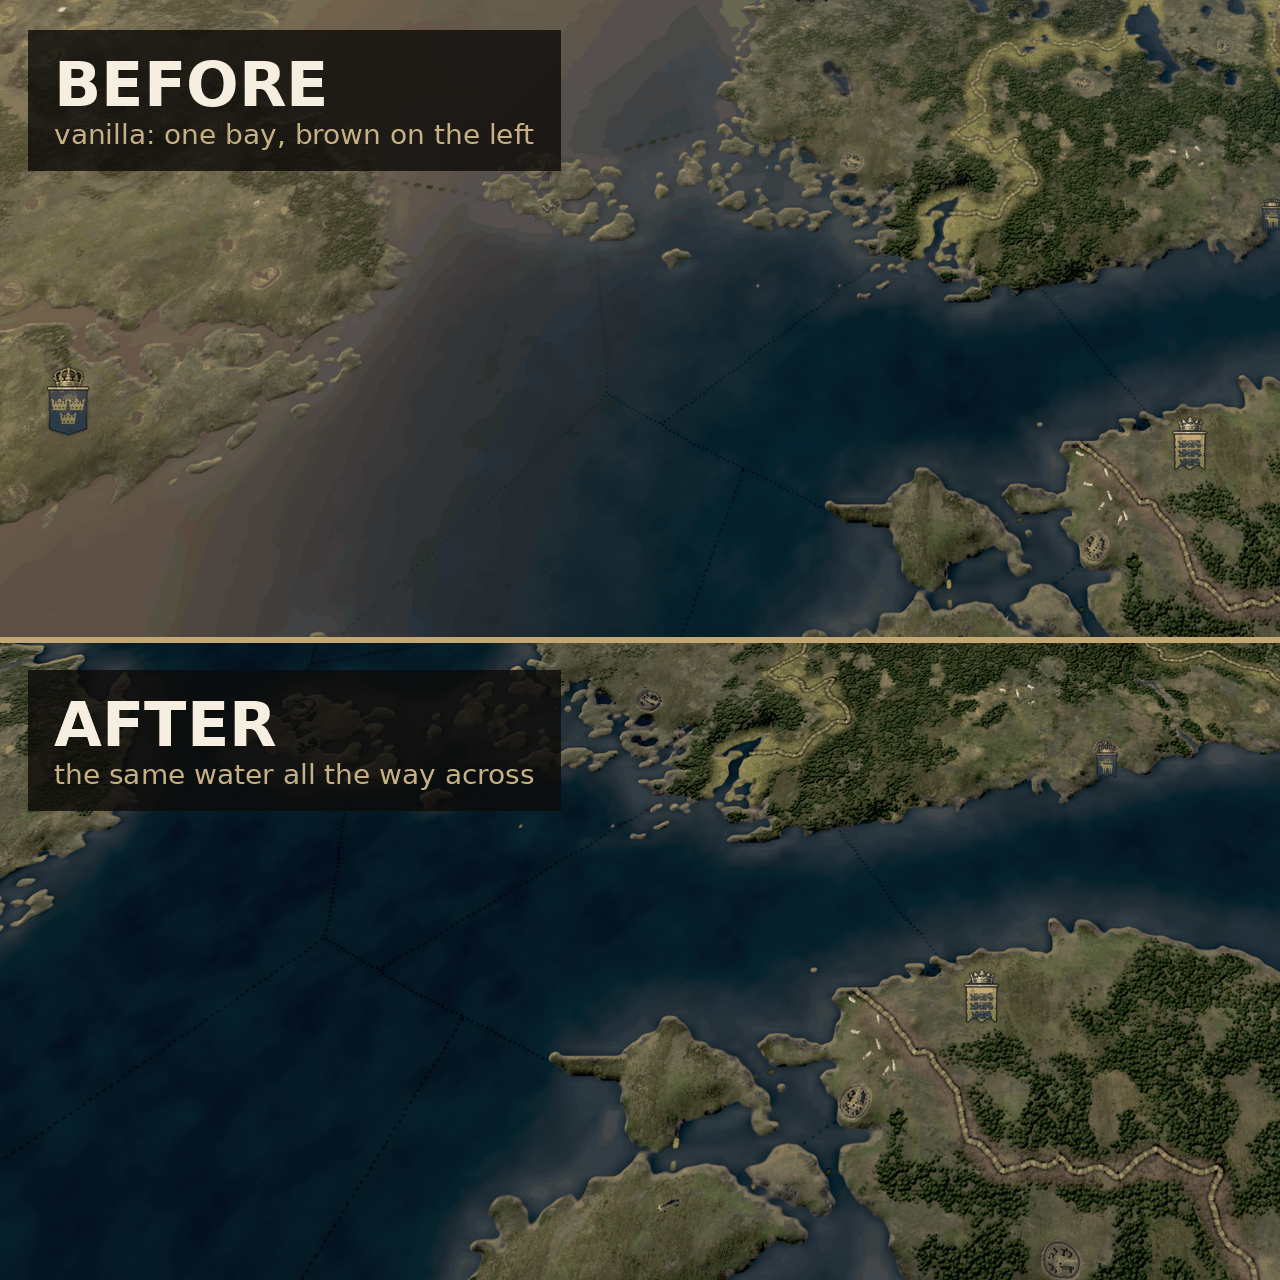
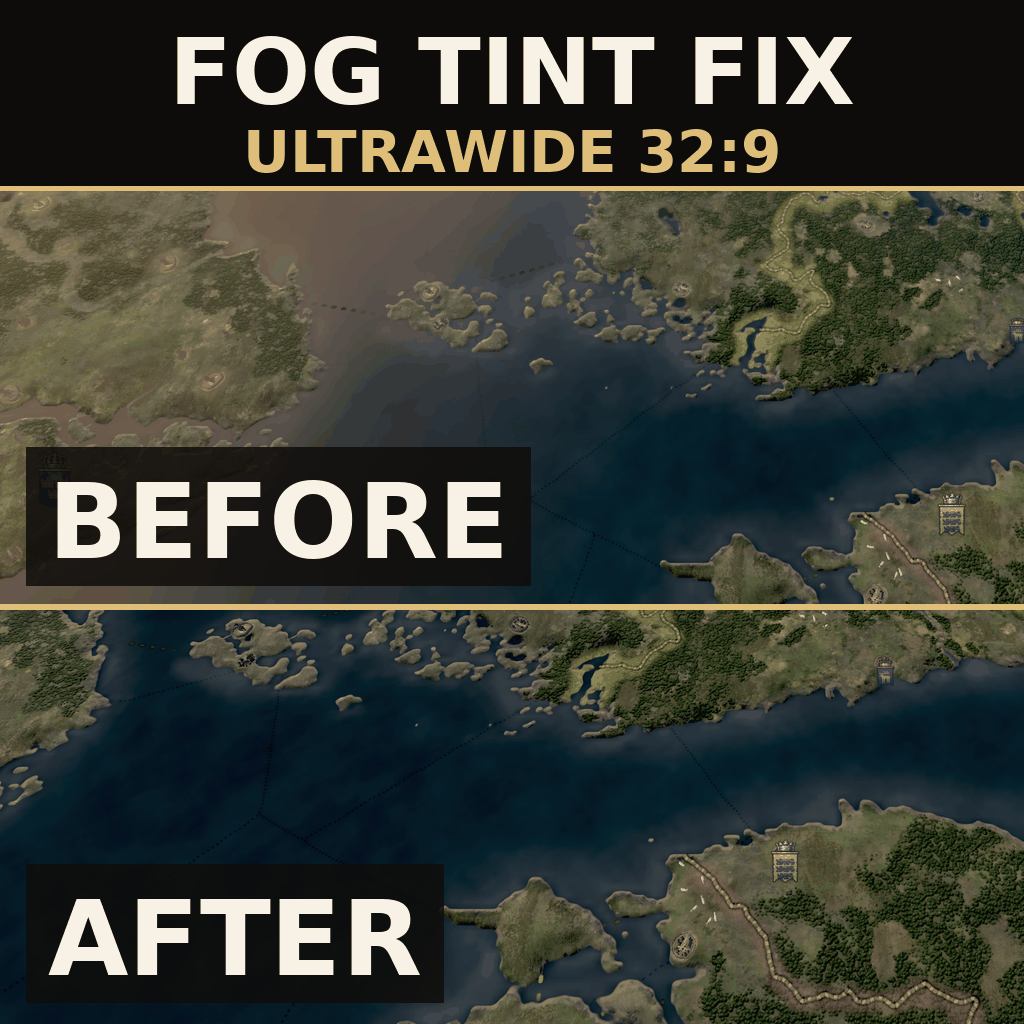
Preview: shared layout with large labels that read at listing size

diff --git a/tools/thumbnail_layout.py b/tools/thumbnail_layout.py
@@ -1,0 +1,87 @@
+"""Workshop preview generator shared by the low spec mods.
+
+Layout, 1024x1024, built to read at Steam's ~200 px listing size:
+  top band     : mod name (bold, ~90 px) and ADVANCED SHADERS OFF (bold, ~60 px)
+  two halves   : BEFORE / AFTER screenshots, each labelled with a ~100 px bold word
+All text sits on solid dark backing so it survives any screenshot underneath.
+"""
+from PIL import Image, ImageDraw, ImageFont
+
+FB = "/usr/share/fonts/truetype/dejavu/DejaVuSans-Bold.ttf"
+S = 1024
+BAND = 190
+HALF = (S - BAND) // 2            # 417
+CROP_H = 853                      # 2120 x 853 keeps the halves' 2.54:1 aspect from a 5120x1440 shot
+GOLD = (222, 190, 120, 255)
+CREAM = (248, 242, 230, 255)
+DARK = (14, 12, 10, 255)
+
+def crop_half(path, crop):
+    return Image.open(path).convert("RGB").crop(crop).resize((S, HALF), Image.LANCZOS)
+
+def label(d, y, text, font, pad=22):
+    tw = d.textlength(text, font=font)
+    box = [26, y, 26 + tw + pad * 2, y + font.size + pad * 2 - 10]
+    d.rectangle(box, fill=(14, 12, 10, 215))
+    d.text((26 + pad, y + pad - 8), text, font=font, fill=CREAM)
+
+def fit(d, text, size, max_w):
+    """Largest font size at or below `size` whose rendered width fits max_w."""
+    while size > 40:
+        f = ImageFont.truetype(FB, size)
+        if d.textlength(text, font=f) <= max_w:
+            return f
+        size -= 4
+    return ImageFont.truetype(FB, size)
+
+def make(out, title, before, after, crop_before, crop_after, sub="ADVANCED SHADERS OFF"):
+    canvas = Image.new("RGB", (S, S), DARK[:3])
+    canvas.paste(crop_half(before, crop_before), (0, BAND))
+    canvas.paste(crop_half(after, crop_after), (0, BAND + HALF))
+    d = ImageDraw.Draw(canvas, "RGBA")
+    f_title = fit(d, title, 92, S - 60)
+    f_sub = fit(d, sub, 58, S - 60)
+    f_tag = ImageFont.truetype(FB, 104)
+    # top band: centred title, gold subtitle
+    tw = d.textlength(title, font=f_title); d.text(((S - tw) / 2, 18), title, font=f_title, fill=CREAM)
+    sw = d.textlength(sub, font=f_sub); d.text(((S - sw) / 2, 118), sub, font=f_sub, fill=GOLD)
+    # half labels
+    # labels at the bottom of each half, so the top of the screenshot stays clear
+    tag_h = f_tag.size + 22 * 2 - 10
+    label(d, BAND + HALF - tag_h - 22, "BEFORE", f_tag)
+    label(d, S - tag_h - 22, "AFTER", f_tag)
+    # seams
+    d.rectangle([0, BAND - 4, S, BAND], fill=GOLD)
+    d.rectangle([0, BAND + HALF - 3, S, BAND + HALF + 2], fill=GOLD)
+    finish(canvas, out)
+
+def finish(canvas, out):
+    clean = Image.new("RGB", canvas.size); clean.putdata(list(canvas.getdata()))
+    clean = clean.quantize(colors=256, method=Image.MEDIANCUT, dither=Image.FLOYDSTEINBERG)
+    clean.save(out, "PNG", optimize=True)
+    import os
+    check = os.path.join(os.path.dirname(os.path.abspath(__file__)), "thumbnail-200px.png")
+    clean.convert("RGB").resize((200, 200), Image.LANCZOS).save(check)
+    import os; print(out, os.path.getsize(out), "bytes")
+
+def make_columns(out, title, before, after, crop_before, crop_after, sub):
+    """Same band on top, BEFORE | AFTER side by side below - for tall subjects such
+    as a menu column. Crops should be roughly 512:834 (0.61:1)."""
+    COL_H = S - BAND
+    canvas = Image.new("RGB", (S, S), DARK[:3])
+    for i, (path, crop) in enumerate(((before, crop_before), (after, crop_after))):
+        im = Image.open(path).convert("RGB").crop(crop).resize((S // 2, COL_H), Image.LANCZOS)
+        canvas.paste(im, (i * (S // 2), BAND))
+    d = ImageDraw.Draw(canvas, "RGBA")
+    f_title = fit(d, title, 92, S - 60); f_sub = fit(d, sub, 58, S - 60); f_tag = ImageFont.truetype(FB, 96)
+    tw = d.textlength(title, font=f_title); d.text(((S - tw) / 2, 18), title, font=f_title, fill=CREAM)
+    sw = d.textlength(sub, font=f_sub); d.text(((S - sw) / 2, 118), sub, font=f_sub, fill=GOLD)
+    tag_h = f_tag.size + 22 * 2 - 10
+    for i, text in enumerate(("BEFORE", "AFTER")):
+        x = 26 + i * (S // 2)
+        tw = d.textlength(text, font=f_tag)
+        box = [x, S - tag_h - 22, x + tw + 44, S - 22]
+        d.rectangle(box, fill=(14, 12, 10, 215)); d.text((x + 22, S - tag_h - 22 + 14), text, font=f_tag, fill=CREAM)
+    d.rectangle([0, BAND - 4, S, BAND], fill=GOLD)
+    d.rectangle([S // 2 - 2, BAND, S // 2 + 2, S], fill=GOLD)
+    finish(canvas, out)

diff --git a/tools/make_thumbnail.py b/tools/make_thumbnail.py
@@ -1,60 +1,16 @@
 #!/usr/bin/env python3
-"""Build thumbnail.png from a vanilla screenshot and a modded one.
+"""Rebuilds thumbnail.png (Workshop preview) and tools/thumbnail-200px.png (a legibility
+check at Steam's listing size, not uploaded). Layout lives in thumbnail_layout.py.
 
-The crop window is chosen so that no HUD element is inside it - no pause label,
-resource bar, portrait, minimap or right-hand icon column - and so that it contains
-water spanning most of the frame width. Water is what makes the bug self-evident:
-the same bay is brown on the left and blue on the right.
-
-Both screenshots must be 5120x1440; CROP is in those coordinates.
-"""
-from PIL import Image, ImageDraw, ImageFont
+The crop window contains water spanning most of the frame width and no HUD element;
+water is what makes the bug self-evident: the same bay is brown on the left and blue
+on the right. Both screenshots are 5120x1440; CROP is in those coordinates."""
+import os, sys
+sys.path.insert(0, os.path.dirname(__file__))
+from thumbnail_layout import make
 
 OLD = "/home/nikita/Pictures/Screenshots/Screenshot_20260912_162527.png"  # vanilla
 NEW = "/home/nikita/Pictures/Screenshots/Screenshot_20260912_163049.png"  # modded
-OUT = "/home/nikita/Projects/ck3-ultrawide-fog-fix/thumbnail.png"
-
-S = 1280
-H = S // 2
-CROP = (700, 250, 3000, 1400)   # 2300x1150, 2:1, clear of every UI element
-
-FB = "/usr/share/fonts/truetype/dejavu/DejaVuSans-Bold.ttf"
-FR = "/usr/share/fonts/truetype/dejavu/DejaVuSans.ttf"
-
-
-def half(path):
-    return Image.open(path).convert("RGB").crop(CROP).resize((S, H), Image.LANCZOS)
-
-
-canvas = Image.new("RGB", (S, S))
-canvas.paste(half(OLD), (0, 0))
-canvas.paste(half(NEW), (0, H))
-
-d = ImageDraw.Draw(canvas, "RGBA")
-big = ImageFont.truetype(FB, 62)
-small = ImageFont.truetype(FR, 28)
-
-
-def badge(y_top, title, sub):
-    pad_x, pad_y = 26, 18
-    w = int(max(d.textlength(title, font=big), d.textlength(sub, font=small))) + pad_x * 2
-    h = pad_y * 2 + 62 + 10 + 32
-    d.rectangle([28, y_top, 28 + w, y_top + h], fill=(12, 10, 8, 205))
-    d.text((28 + pad_x, y_top + pad_y), title, font=big, fill=(245, 238, 225, 255))
-    d.text((28 + pad_x, y_top + pad_y + 70), sub, font=small, fill=(198, 176, 132, 255))
-
-
-badge(30, "BEFORE", "vanilla: one bay, brown on the left")
-badge(H + 30, "AFTER", "the same water all the way across")
-
-d.rectangle([0, H - 3, S, H + 2], fill=(196, 168, 116, 255))
-
-# rebuild from raw pixels so no source metadata survives, then quantise to stay
-# under Steam's 1 MB preview limit at full 1280x1280
-clean = Image.new("RGB", canvas.size)
-clean.putdata(list(canvas.getdata()))
-clean = clean.quantize(colors=256, method=Image.MEDIANCUT, dither=Image.FLOYDSTEINBERG)
-clean.save(OUT, "PNG", optimize=True)
-
-import os
-print("saved", OUT, clean.size, os.path.getsize(OUT), "bytes")
+CROP = (700, 320, 3000, 1255)   # 2300x935, 2.46:1, clear of every UI element
+OUT = os.path.join(os.path.dirname(__file__), "..", "thumbnail.png")
+make(OUT, "FOG TINT FIX", OLD, NEW, CROP, CROP, sub="ULTRAWIDE 32:9")
